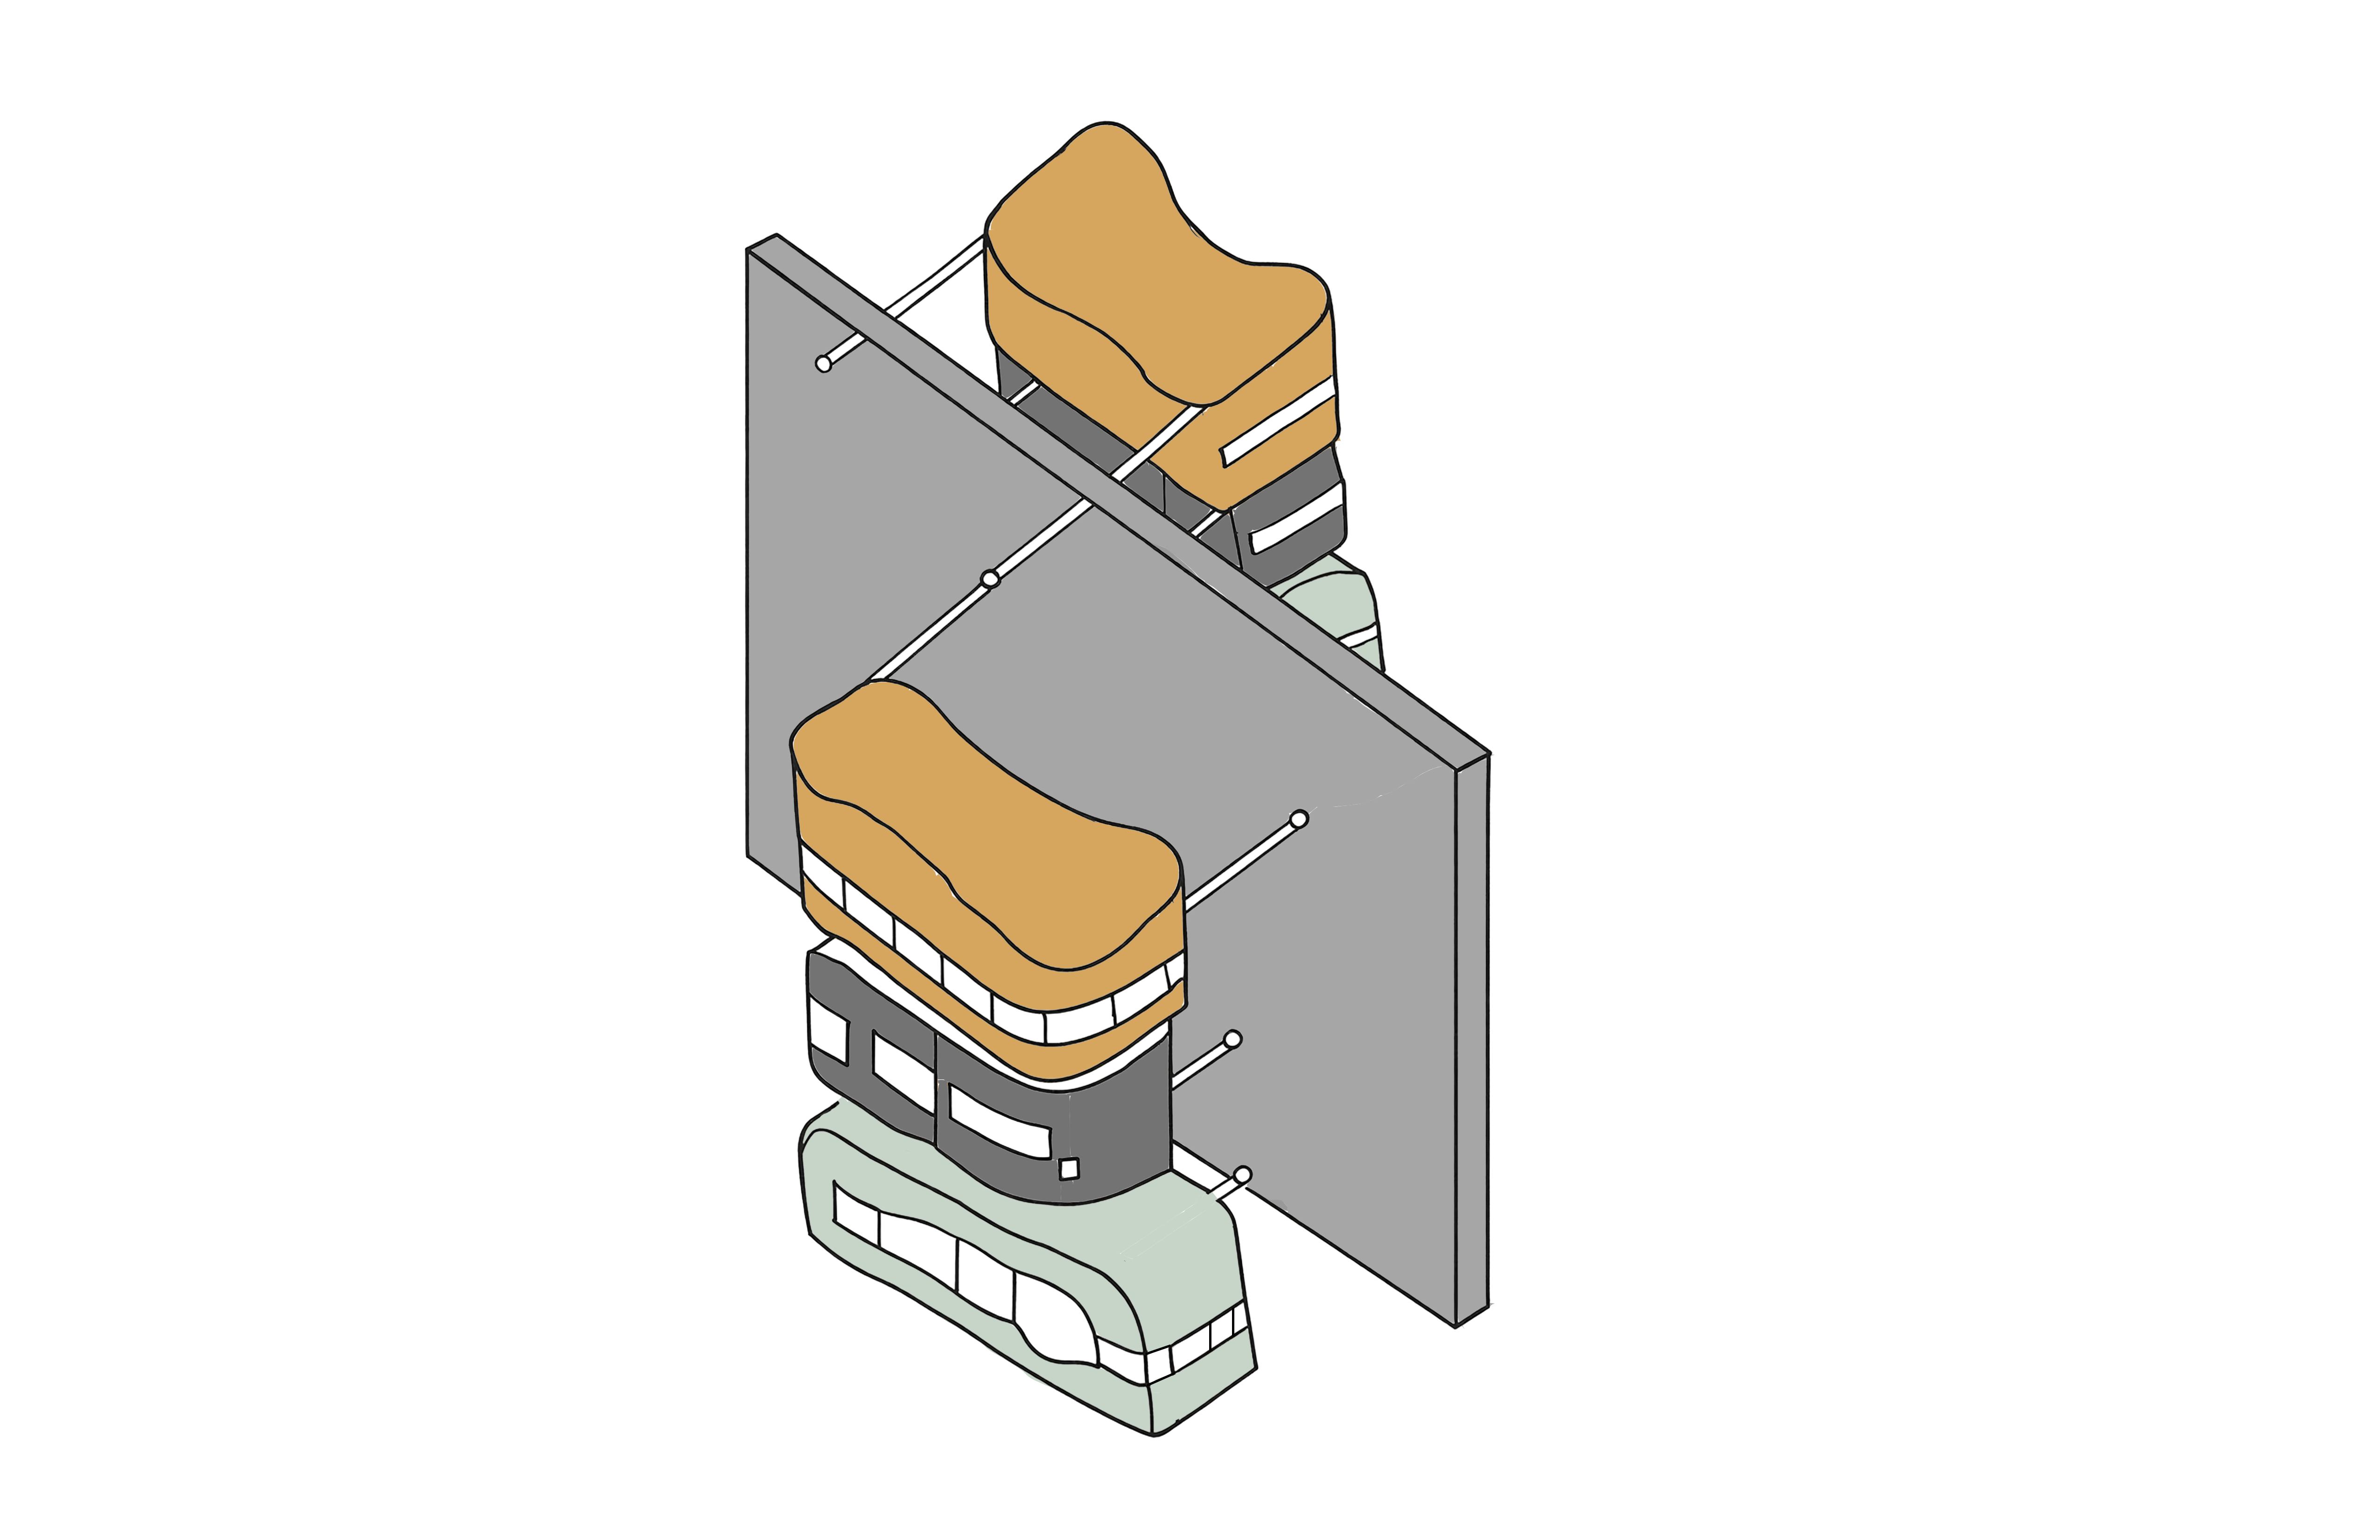
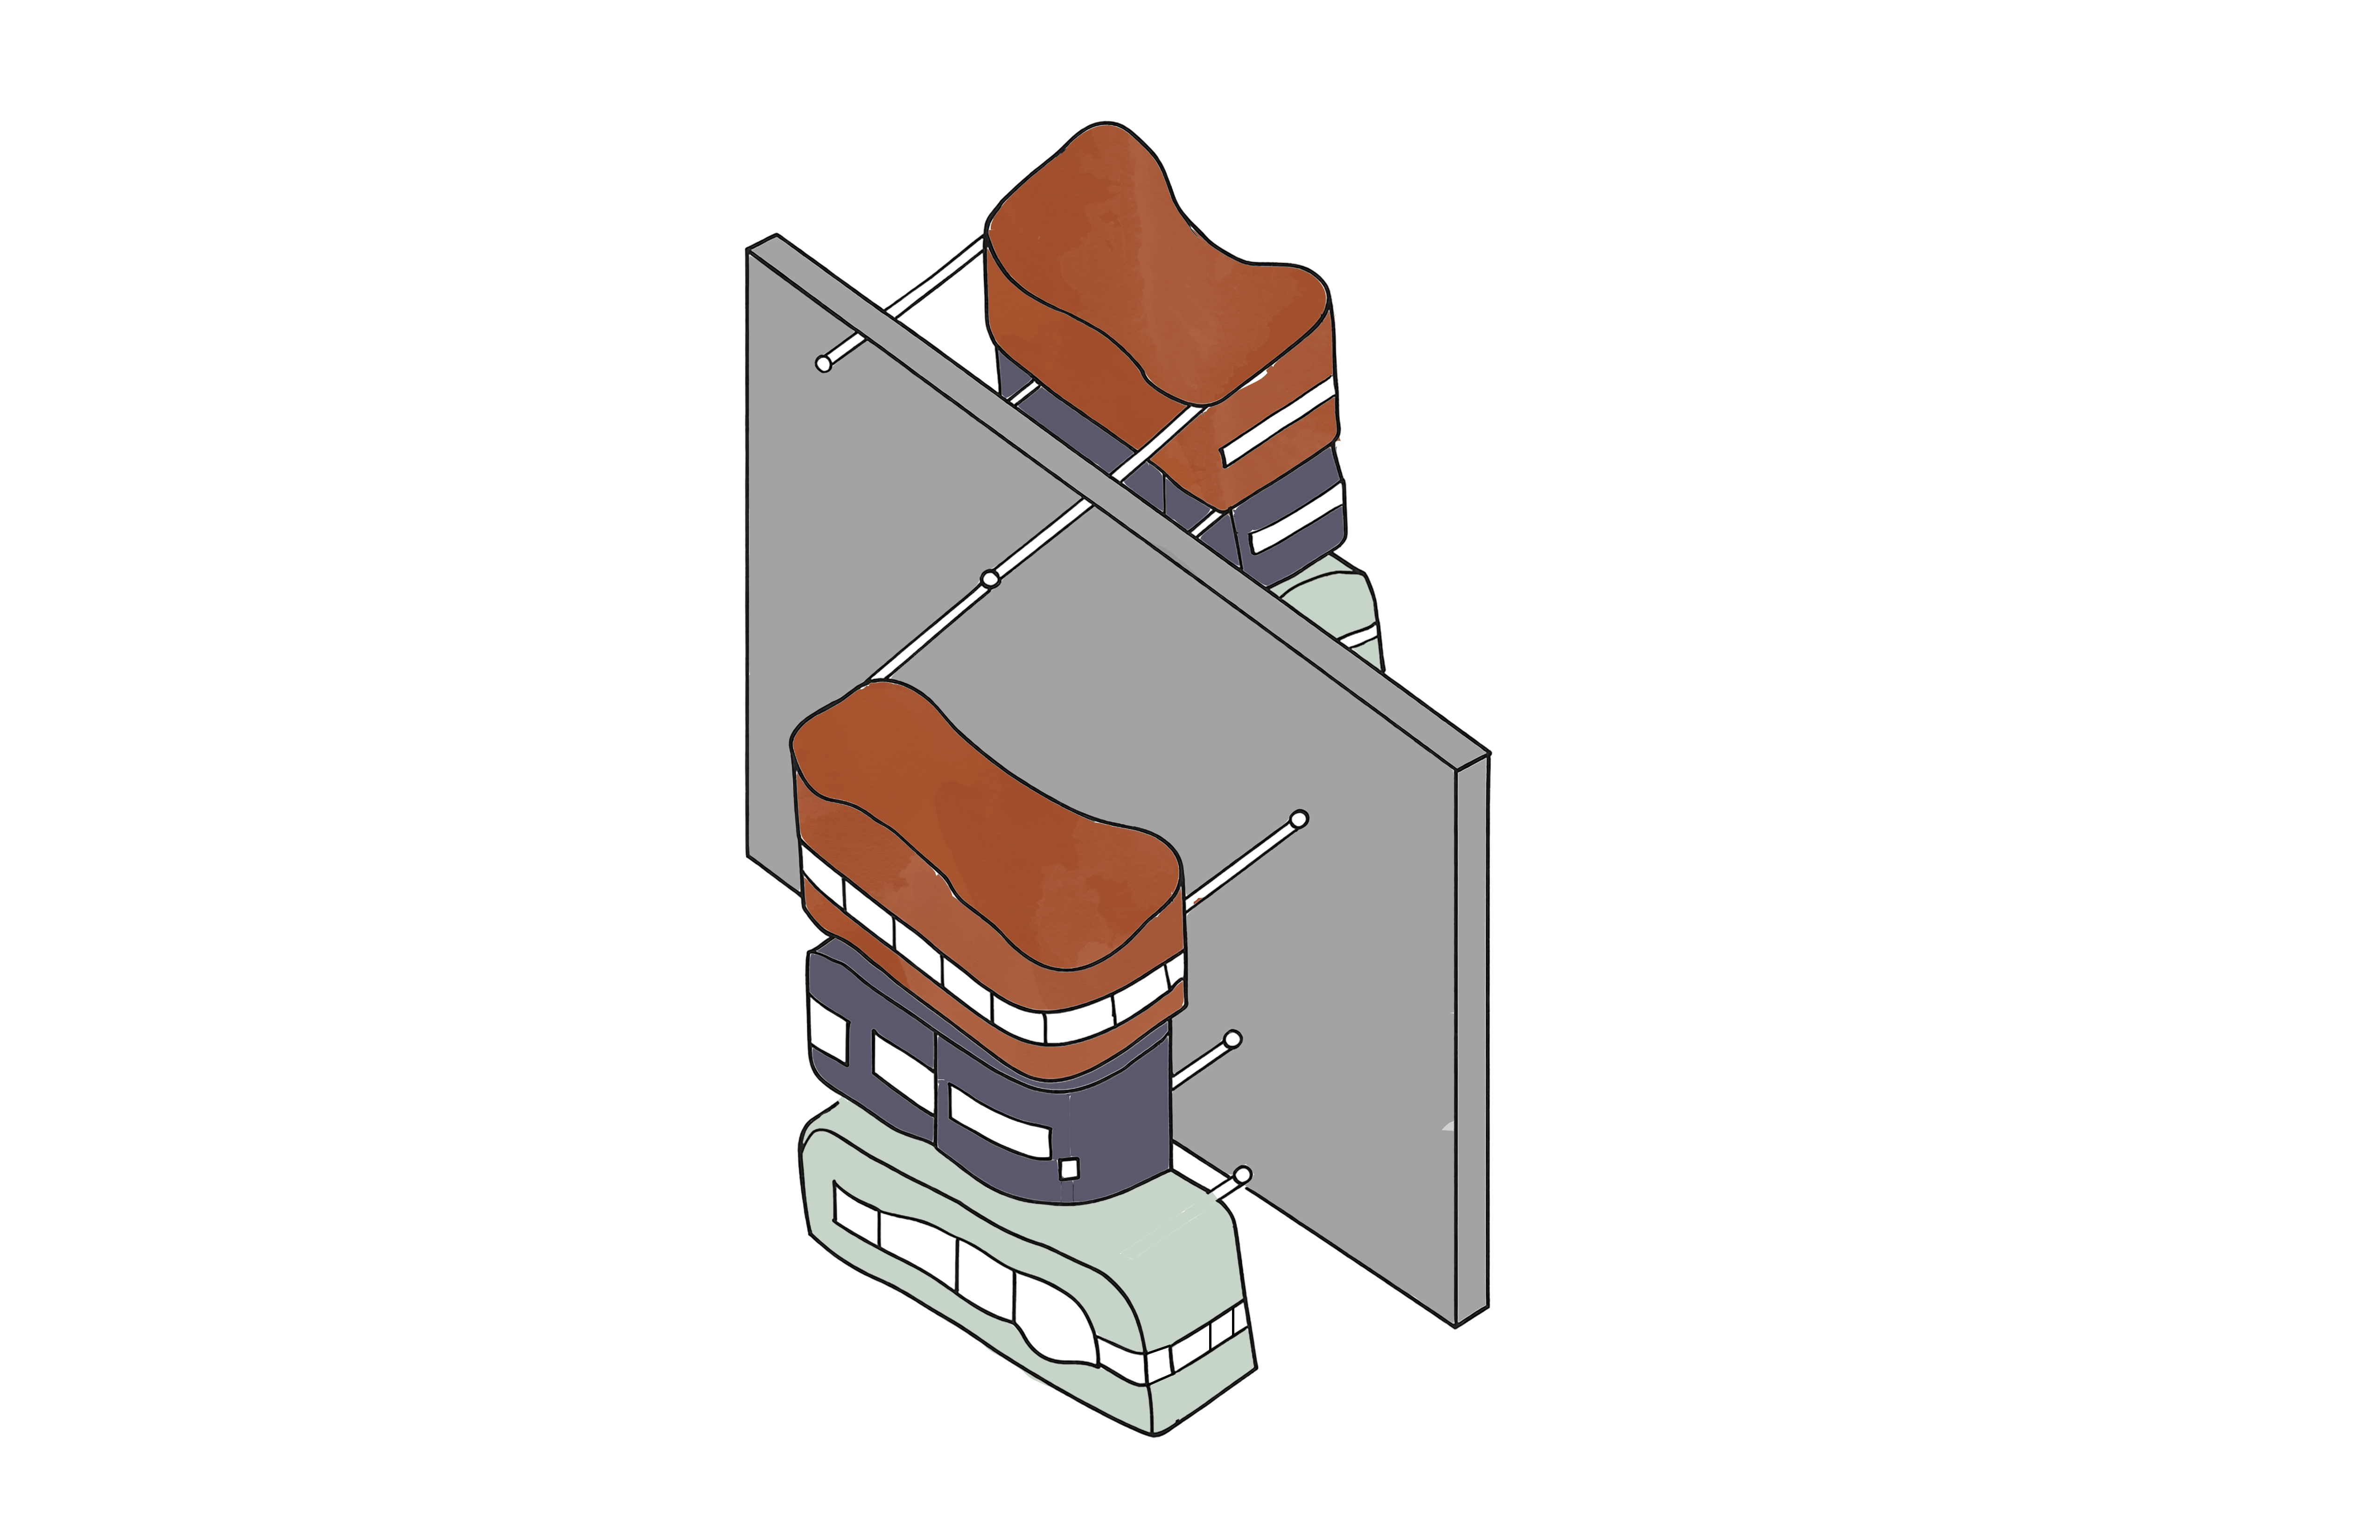
feat: Add updated sketch and before axon redo images to Capillary Wall Planter

Changed region(s): [[0.3118, 0.437, 0.4988, 0.7803], [0.4053, 0.0624, 0.5612, 0.3745]]

diff --git a/src/App.tsx b/src/App.tsx
@@ -35,10 +35,12 @@ const PROJECTS = [
     category: "Product Design",
     year: "Spring 2026",
     images: [
+      "/images/planter-before-axon.png",
+      "/images/planter-sketch.png",
       "/images/planter-water-diagram.png",
       "/images/planter-final-model.png"
     ],
-    imageTypes: ["Water Diagram", "Physical Model"],
+    imageTypes: ["Before Axon Redo", "Sketch", "Water Diagram", "Physical Model"],
     description: "The Capillary Wall Planter is inspired by John Hedjuk's Wall House II and displays three stacked masses that act as performers bringing different energies to the stage. The wall behaves as a threshold where 3 masses are mirrored to represent the echos over the stage. The vertical columns that joined the 3 masses in the Planter behave as pipes that channel water coming into the system to then be collected into a reservoir to form a closed loop irrigation system.",
     specs: [
       { label: "Location", value: "College Park, MD" },